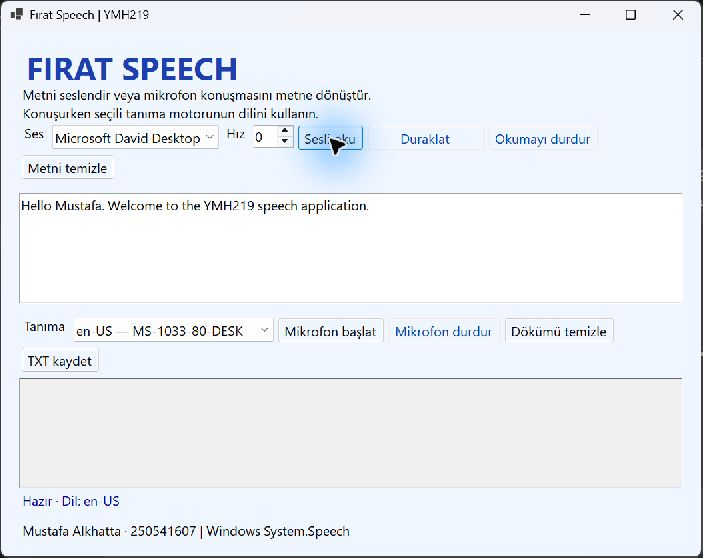
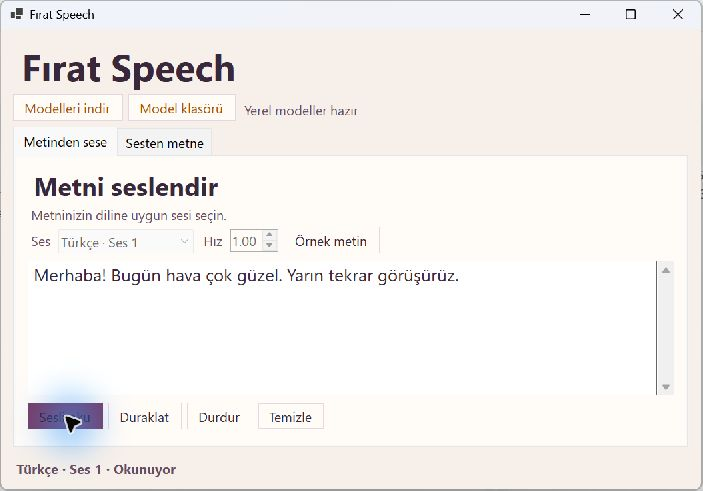
docs: iki dilin gerçek okuma ve döküm ekranlarını ekle

diff --git a/README.md b/README.md
@@ -1,48 +1,48 @@
-# Fırat Speech — YMH219
+# Fırat Speech
 
-Windows Forms üzerinde iki yönlü ses/metin uygulaması: metni seslendirme ve mikrofondan konuşmayı metne dönüştürme.
+Windows Forms üzerinde Türkçe ve İngilizce metin okuma ve konuşma dökümü. Model dosyaları kurulduktan sonra iki işlem de bilgisayarda çevrimdışı çalışır.
 
-**Öğrenci:** Mustafa Alkhatta — **250541607**
-
-## Teknolojiler
-C#, .NET 10, Windows Forms, NuGet `System.Speech` **10.0.0**, Windows SAPI.
+**Öğrenci** · Mustafa Alkhatta, 250541607
 
 ## Kurulum ve çalıştırma
-Windows 10/11 ve .NET 10 SDK gereklidir. Visual Studio'da .NET masaüstü iş yüküyle `SpeechApp.csproj` açılabilir.
+
+Windows 10/11 x64 ve .NET 10 SDK gereklidir. Visual Studio .NET masaüstü iş yüküyle `SpeechApp.csproj` açıp çalıştırabilirsiniz.
 
 ```powershell
 git clone https://github.com/MustafaAlkhattab/YMH219-SpeechApp.git
 cd YMH219-SpeechApp
-dotnet restore
-dotnet build -c Release
 dotnet run -c Release
 ```
 
-Windows'ta en az bir masaüstü TTS sesi bulunmalıdır. Mikrofon girişi için System.Speech ile uyumlu bir **masaüstü konuşma tanıma motoru**, mikrofon ve Windows mikrofon erişimi gerekir. Uygulama kurulu motorları listeler. Örneğin en-US motoru seçiliyse İngilizce konuşulmalıdır; Türkçe motor kurulu olmadan Türkçe dikte vaat edilmez. Eksik altyapı veya erişim hatası arayüzde açıklanır.
+İlk açılışta **Modelleri indir** düğmesine basın. İndirme yaklaşık 480 MB'dir. Kurulum için en az 650 MB boş alan ayırın. **Model klasörü** ile başka bir diski seçebilirsiniz. Arayüz indirme ve hata durumlarını gösterir. Kurulum, indirilen dosyaların SHA-256 özetlerini doğrular. Windows masaüstü konuşma dil paketi ve API anahtarı gerekmez.
 
-## Temel özellikler ve kullanım
-- Üst alana metin yazın, ses ve hız (-10…10) seçin, **Sesli oku** düğmesine basın.
-- **Duraklat / Devam** ve **Okumayı durdur** ile oynatmayı yönetin; **Metni temizle** alanı siler.
-- Alt araç çubuğunda tanıma dilini seçip **Mikrofon başlat** kullanın. Konuşma, saat ve güven değeriyle alt alana eklenir.
-- **Mikrofon durdur**, **Dökümü temizle** ve **TXT kaydet** bulunur.
-- Okuma ve mikrofon aynı anda çalıştırılmaz; kendi çıktısının yanlışlıkla dikteye alınması önlenir.
-- Durum etiketi aktif işlemi ve hataları gösterir. İşlemler asenkrondur; kaynaklar pencere kapanışında serbest bırakılır.
+## Metinden sese
 
-## Nesne tabanlı tasarım
-`SpeechService` sentezleyiciyi, tanıyıcıyı ve yaşam döngülerini kapsüller; olaylarla arayüze haber verir. `Form1` kontrolleri ve kullanıcı hatalarını yönetir. Arka plan sonuçları BeginInvoke ile arayüze aktarılır.
+İlk sekmede metin yazın ve içeriğin diline uygun sesi seçin. Hem Türkçe hem İngilizce için iki farklı sinir ağı sesi vardır. **Örnek metin** seçili dilde bir deneme cümlesi doldurur. **Sesli oku**, **Duraklat / Devam**, **Durdur** ve **Temizle** işlemleri bulunur. Okuma hızını değiştirebilirsiniz.
+
+## Sesten metne
+
+1. **Sesten metne** sekmesinde konuşacağınız dili ve mikrofonu seçin.
+2. **Mikrofonu başlat** düğmesine basın. Ses göstergesini izleyerek 1–2 cümle konuşun ve **Bitir ve yazıya dök** düğmesine basın. Bir kayıt 28 saniyeyle sınırlıdır ve sınıra ulaşınca otomatik çözümlenir.
+3. Metin saat ve dil ile gösterilir ve düzenlenebilir. **TXT kaydet** dosya oluşturur.
+4. Mikrofon yerine bir **WAV aç** seçeneği veya **Örneği çöz** ile seçili dilde cihazda üretilen kısa bir sentetik örnek kullanılabilir.
+
+## Teknoloji ve tasarım
+
+C# / .NET 10, Windows Forms, sherpa-onnx 2.0.1 (Windows x64 çalışma zamanı) ve NAudio 2.2.1. `MicrophoneTake` mikrofonu açıp tek bir konuşma parçasını belleğe alır. `NeuralSpeech` Supertonic 3 ile sesi üretir. Silero ile kayıtta konuşma olup olmadığını kontrol eder ve çok dilli Whisper Small int8 ile cümlenin tamamını çözer. Hesaplama arayüz iş parçacığından ayrı yürütülür.
 
 ## Ekran görüntüleri
-![Ses ve motor seçimi](docs/01-ready.png)
-![TTS tamamlandı durumu](docs/02-playback.png)
 
-## Kontrol ve bilinen sınırlamalar
-- Release derlemesi 0 hata / 0 uyarı ile geçti.
-- Microsoft David Desktop sesi ve en-US masaüstü motoru bulundu; örnek metnin TTS işlemi başlatıldı ve tamamlanma olayı doğrulandı.
-- Canlı mikrofon diktesi, duraklatma/devam ve TXT dışa aktarma kullanıcıyla birlikte ayrıca denenmelidir; doğrulanmış sayılmamıştır.
-- Doğruluk mikrofon, gürültü ve dil motoruna bağlıdır. Güven değeri doğruluk garantisi değildir.
-- Farklı bilgisayarda çalışma henüz denenmedi. Uygulama ses kaydını dosyaya almaz veya bulut servisine göndermez.
+![Türkçe sinir ağıyla metin okuma](docs/01-ready.png)
+![Türkçe ve İngilizce örneklerin dökümü](docs/02-playback.png)
 
-## Sözlü hazırlık ve kaynak
-DictationGrammar serbest konuşma içindir; SpeechRecognized tanınan sonucu getirir. RecognizeAsync arayüzü bekletmez. IDisposable kaynakların kapatılması mikrofonun açık kalmasını önler.
+## Doğrulama ve sınırlamalar
 
-[Microsoft SpeechRecognitionEngine belgesi](https://learn.microsoft.com/en-us/dotnet/api/system.speech.recognition.speechrecognitionengine)
+Windows Release derlemesi, dört ses seçeneğinin ses üretmesi, iki dilde yerel örnek çözümlemesi ve kaydedilmiş bir İngilizce konuşma dosyası sınandı. Mikrofon açma ve durdurma işlemleri gerçek bir Windows aygıtında doğrulandı. Sessizlikte döküm üretilmedi.
+
+Doğruluk telaffuza, çevre gürültüsüne ve seçilen dile bağlıdır. Dil her kayıt için seçilir. Uygulama iki dilli karışık bir kaydı otomatik bölmez ve durdurduktan sonra metni üretir. Mikrofon erişilemiyorsa durumu bildirir ve WAV çözümleme kullanılabilir. Ses kaydı bellekte kalır. Yalnız model kurulumunda ağ kullanılır.
+
+## Model kaynakları
+
+- [Sherpa-ONNX](https://github.com/k2-fsa/sherpa-onnx) · [Whisper Small ONNX](https://huggingface.co/csukuangfj/sherpa-onnx-whisper-small) · [Silero VAD](https://github.com/snakers4/silero-vad)
+- [Supertone Supertonic 3](https://huggingface.co/Supertone/supertonic-3) · [Sherpa-ONNX Supertonic int8 paketi](https://k2-fsa.github.io/sherpa/onnx/tts/supertonic.html). Model paketindeki OpenRAIL-M lisansı geçerlidir.
